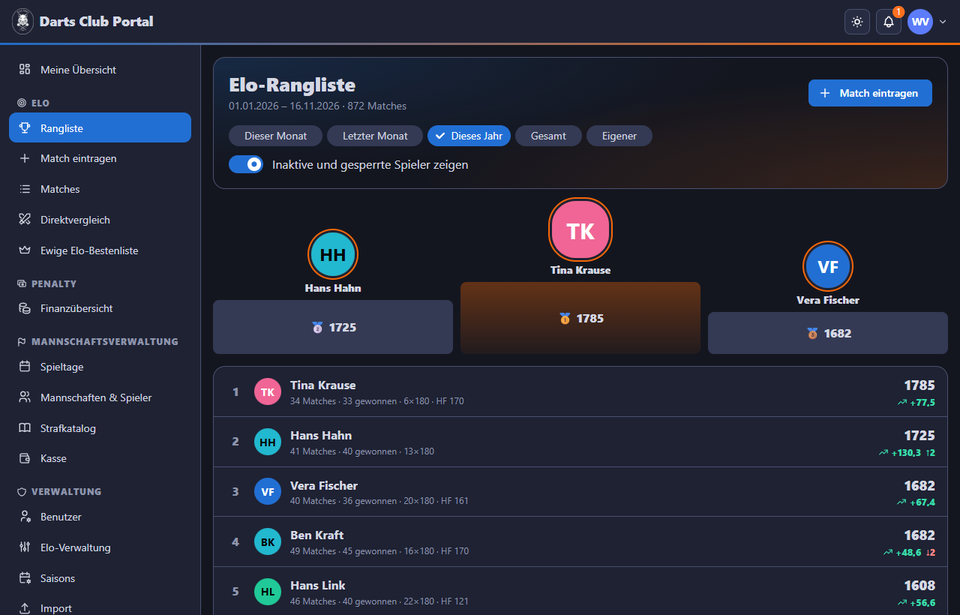
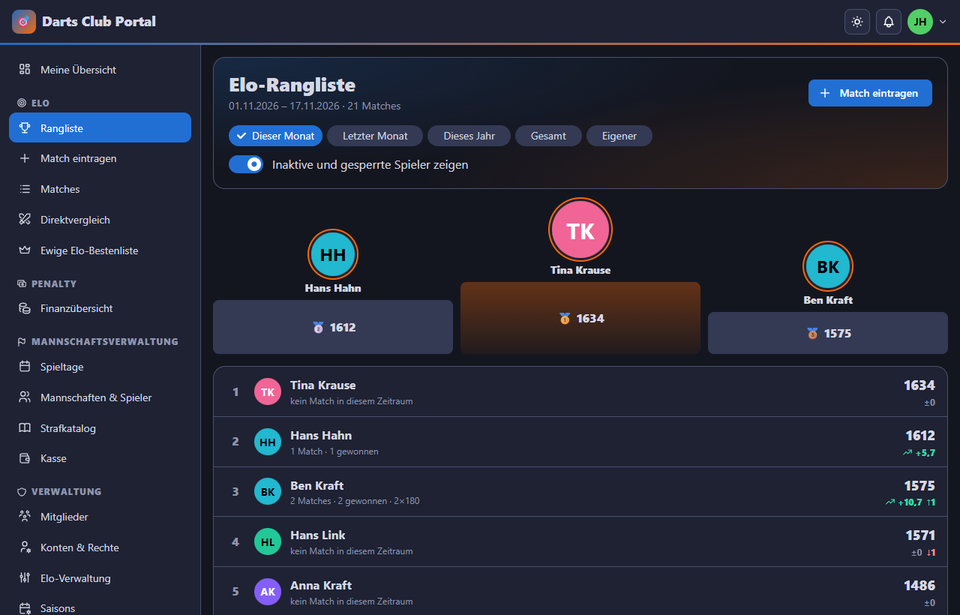
docs: README with the new features and fresh screenshots
Features: members (quick add, invite, Elo, round picture crop), club
account with QR poster, Import & Export with backup and restore, e-mail
change, admin areas. New screenshots from demo data: Elo ranking,
head-to-head, financial overview, members (desktop); match entry,
members, member page, Import & Export, matchday, penalty, settings
(phone).

diff --git a/README.md b/README.md
@@ -18,8 +18,9 @@ work off the captain and the cashier.
 ## Features
 
 **Elo ranking** (module `elo`)
-- Enter a match in seconds on the phone: players, result (locked to valid
-  scores, also "first to 11"), optional 180s, high finishes, low darts, average.
+- Enter a match in seconds on the phone: pick two players, tap the result -
+  one button per valid score for every format (best of 1 to 21), optional
+  180s, high finishes, low darts, average.
 - Live ranking with podium, monthly / yearly / all-time view, rank movements.
 - Player pages with Elo curve, records and statistics; head-to-head with win chance.
 - Corrections recalculate the history automatically.
@@ -34,23 +35,46 @@ work off the captain and the cashier.
   player, one transparent financial overview for everybody.
 - Mails: each penalty, a daily digest, payment receipts.
 
+**Members - one place for every person**
+- Every player with or without a login: teams of the season, Elo and account
+  at a glance, filters with counts (without account, invited, without Elo ...).
+- **Quick add:** type a name, press Enter - several at once, one per line.
+- **Invite** or **add to Elo** straight from the list; a member page with
+  teams, Elo, account (invite, link, unlink) and the picture.
+- Player pictures are cropped round like in a messenger app: move and zoom
+  inside the circle.
+
 **For the whole club**
-- Roles *System / Admin / User* plus the assignments *captain* and *cashier*
-  – a page "Who may do what?" explains them to every member.
-- Invitations, self-registration with approval, QR login for the shared
-  tablet at the board, player pictures, club logo.
-- Audit log, import of the old Elo and penalty databases, CSV exports.
-- Unsubscribe link in every optional mail, cookie-free tracking-free design.
+- Roles *System / Admin / User* plus the assignments *captain* and *cashier*;
+  admin rights split into the areas *Elo*, *Penalty* and *Portal*. A page
+  "Who may do what?" explains everything to every member.
+- Invitations, self-registration with approval, members change their own
+  e-mail (with a confirmation link) and password.
+- **Club account** for the shared tablet at the board: the only account with
+  a QR login, printed as an A4 poster with club logo and address.
+- **Import & Export:** full backup (database, pictures, club logo) as one ZIP,
+  restore with a safety copy taken first, CSV exports, import of the old Elo
+  and penalty databases.
+- Audit log, unsubscribe link in every optional mail, cookie-free and
+  tracking-free design.
 
 ## Screenshots
 
-| Elo ranking | Player | Financial overview |
-|---|---|---|
-| ![Elo ranking](docs/screenshots/elo-ranking.png) | ![Player](docs/screenshots/elo-player.png) | ![Financial overview](docs/screenshots/financial-overview.png) |
+| Elo ranking | Head-to-head |
+|---|---|
+| ![Elo ranking](docs/screenshots/elo-ranking.png) | ![Head-to-head](docs/screenshots/head-to-head.png) |
 
-| Match entry | Penalty | Matchday | Login |
+| Financial overview | Members |
+|---|---|
+| ![Financial overview](docs/screenshots/financial-overview.png) | ![Members](docs/screenshots/members.png) |
+
+| Match entry | Members | Member | Import & Export |
 |---|---|---|---|
-| ![Match entry](docs/screenshots/phone-match-entry.png) | ![Penalty](docs/screenshots/phone-penalty.png) | ![Matchday](docs/screenshots/phone-matchday.png) | ![Login](docs/screenshots/phone-login.png) |
+| ![Match entry](docs/screenshots/phone-match-entry.png) | ![Members](docs/screenshots/phone-members.png) | ![Member](docs/screenshots/phone-member.png) | ![Import & Export](docs/screenshots/phone-import-export.png) |
+
+| Matchday | Penalty | Settings | Login |
+|---|---|---|---|
+| ![Matchday](docs/screenshots/phone-matchday.png) | ![Penalty](docs/screenshots/phone-penalty.png) | ![Settings](docs/screenshots/phone-settings.png) | ![Login](docs/screenshots/phone-login.png) |
 
 <sub>Demo data with invented names.</sub>
 
@@ -75,10 +99,13 @@ docker compose up -d --build
 Every option is documented in [`portainer_compose.yaml`](portainer_compose.yaml)
 and [`.env.example`](.env.example): modules (`MODULES=elo,penalty`), SMTP for
 the mails, imprint / privacy contact, HTTPS behind a reverse proxy, Elo
-parameters. Data (SQLite, logo, pictures) lives in the volume `dart_data`;
-back it up like any folder.
+parameters. Data (SQLite, logo, pictures) lives in the volume `dart_data`.
 
-**Coming from the old systems?** *Administration → Import* takes the
+**Backups:** *Administration → Import & Export* downloads a full backup
+(database, pictures, club logo) as one ZIP and restores it again - a safety
+copy of the current state is saved to `data/backups` first.
+
+**Coming from the old systems?** *Administration → Import & Export → Import* takes the
 penalty database (`db.sqlite3`) and the Elo database or backup ZIP – with a
 preview before anything is saved. See [docs/SWITCH_OVER.md](docs/SWITCH_OVER.md).
 
